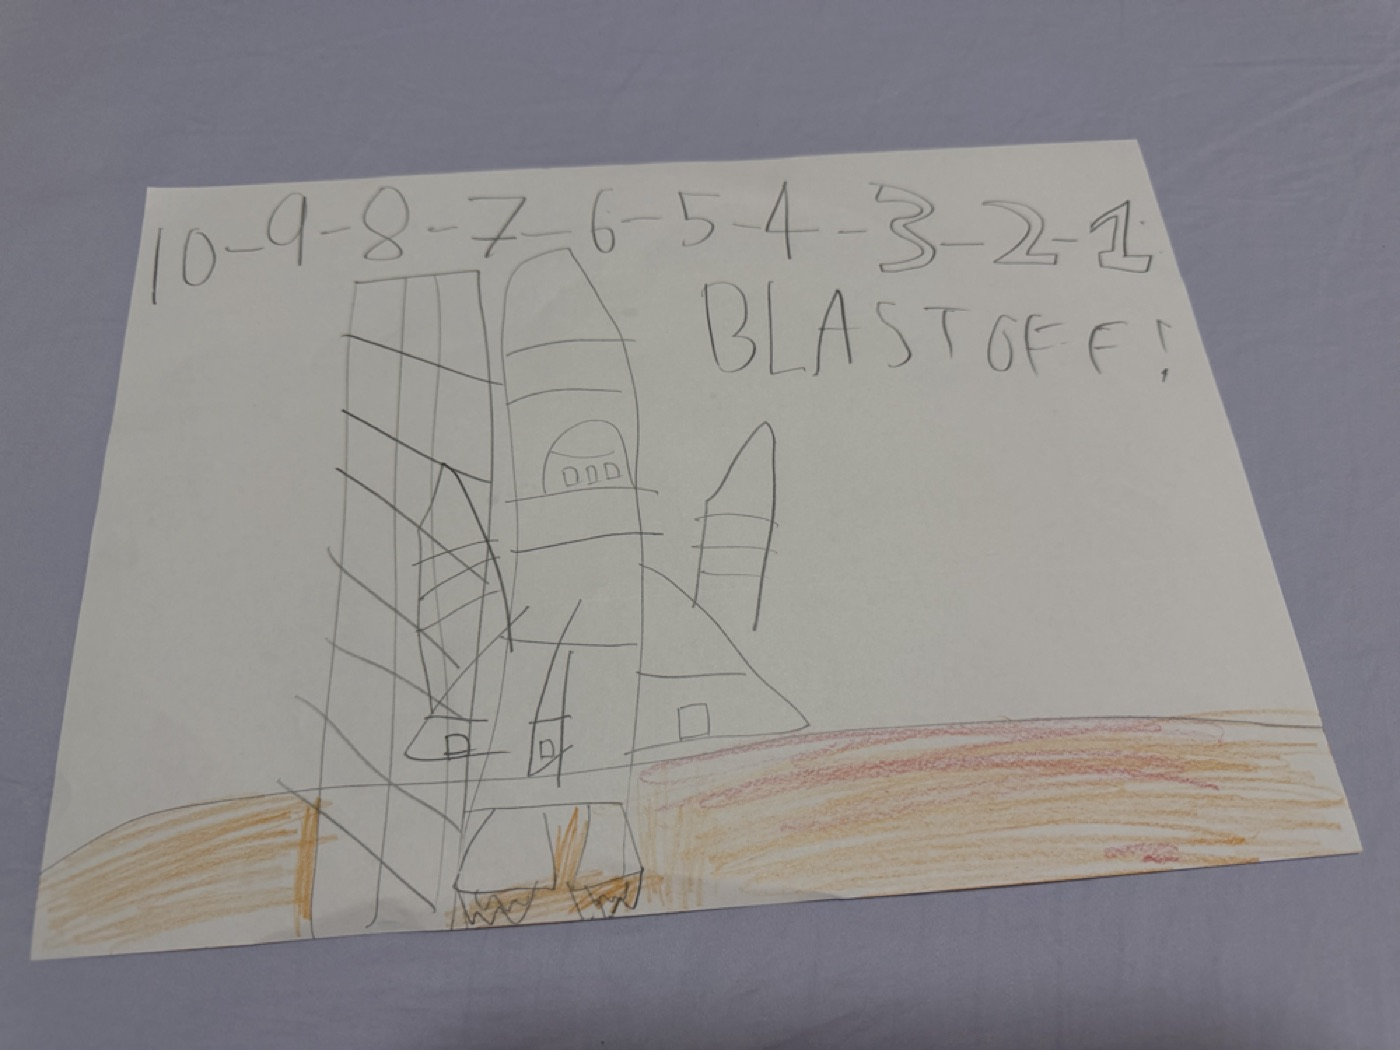
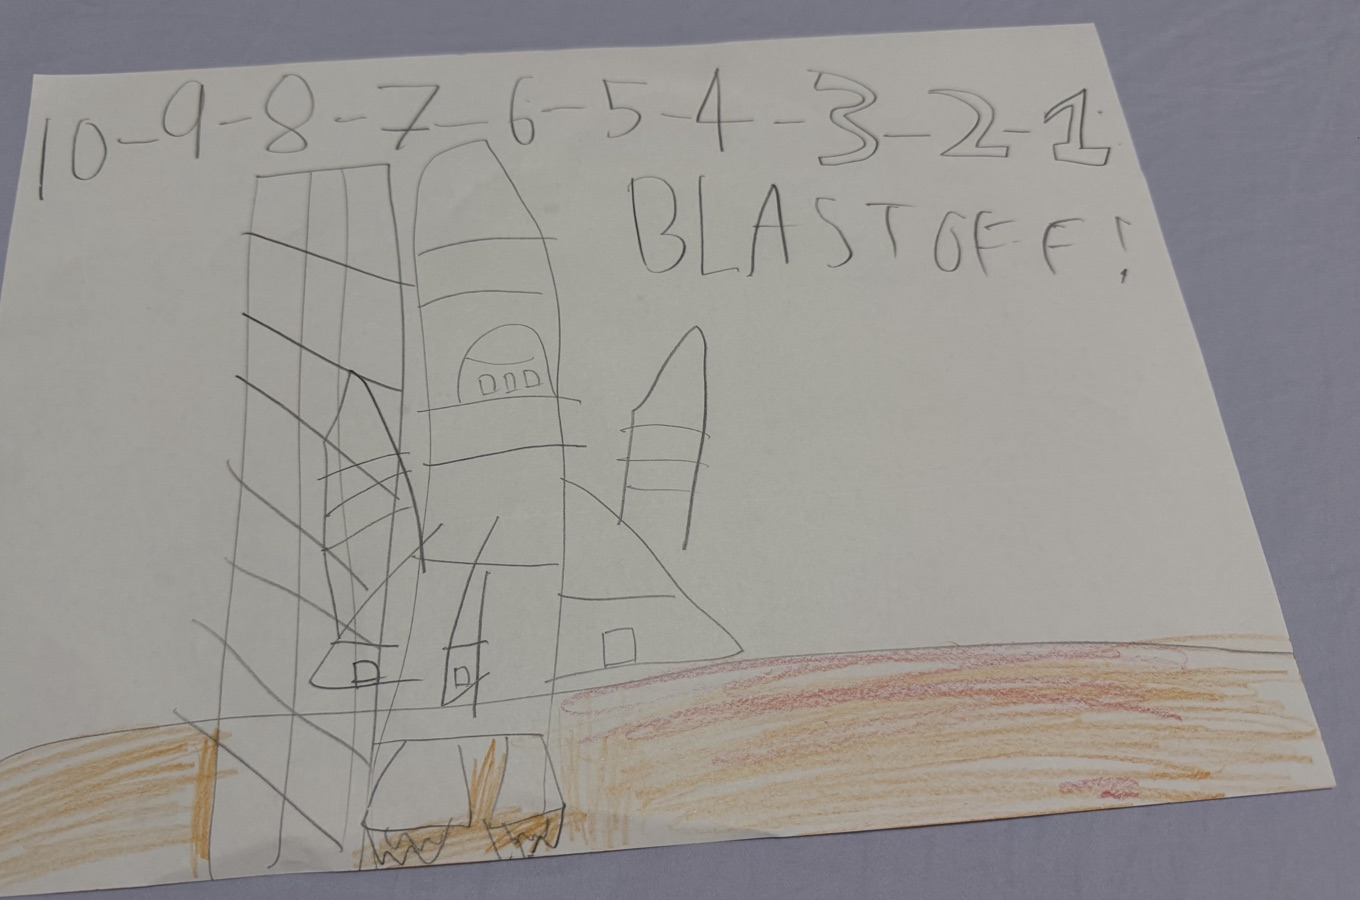
finale: cropped drawings (sheet trimmed), non-overlapping staggered row, localized captions + '八岁生日快乐' handwritten line; mobile: step-label wraps, tap-to-inspect (no sticky tooltip) + hides hook while inspecting

diff --git a/src/ui/styles.css b/src/ui/styles.css
@@ -94,22 +94,22 @@ body { margin: 0; font-family: system-ui, "PingFang SC", sans-serif; color: #e6e
 .finale-art.hidden { display: none; }
 .finale-inner { text-align: center; max-width: 1080px; padding: 44px 24px; }
 .finale-msg { color: #fff6e8; font-size: clamp(15px, 2.2vw, 21px); line-height: 1.5; margin-bottom: 30px; text-shadow: 0 2px 10px rgba(0,0,0,.5); }
-/* 随意拼贴：三张错落散放（左上/右上/下中），略重叠、各带倾角，一屏内看全 */
-.finale-gallery { position: relative; width: min(92vw, 1000px); height: min(58vh, 520px); margin: 6px auto 0; }
-.finale-piece { position: absolute; margin: 0; }
-.finale-piece:nth-child(1) { width: 38%; top: 0; left: 1%; z-index: 1; }
-.finale-piece:nth-child(2) { width: 42%; top: 5%; right: 0; z-index: 2; }
-.finale-piece:nth-child(3) { width: 40%; bottom: 0; left: 28%; z-index: 3; }
+/* 错落一排（不重叠）：三张高低错开、各带倾角，一屏内看全 */
+.finale-gallery { display: flex; flex-wrap: wrap; justify-content: center; align-items: flex-start; gap: 2.2%; }
+.finale-piece { margin: 0; width: 31%; }
+.finale-piece:nth-child(1) { margin-top: 32px; }
+.finale-piece:nth-child(2) { margin-top: 0; }
+.finale-piece:nth-child(3) { margin-top: 48px; }
 .finale-frame { background: #fdfdf7; padding: 12px 12px 10px; border-radius: 4px; box-shadow: 0 18px 48px rgba(0,0,0,.42); }
 .finale-frame img { display: block; width: 100%; height: auto; border-radius: 2px; }
 .finale-piece:nth-child(1) .finale-frame { transform: rotate(-2.5deg); }
 .finale-piece:nth-child(2) .finale-frame { transform: rotate(2deg); }
 .finale-piece:nth-child(3) .finale-frame { transform: rotate(-1.5deg); }
 .finale-piece figcaption { margin-top: 12px; color: #fff6e8; font-size: 14px; line-height: 1.4; text-shadow: 0 1px 6px rgba(0,0,0,.55); }
-/* 底部一行不起眼的手写小字致谢 */
-.finale-credit { margin-top: 34px; color: #fff2e0; font-weight: 400; opacity: .72; transform: rotate(-1.5deg);
+/* 底部手写体生日祝福 */
+.finale-credit { margin-top: 30px; color: #fff3e2; font-weight: 400; opacity: .96; transform: rotate(-1.5deg);
   font-family: "Snell Roundhand", "Bradley Hand", "Segoe Script", "Comic Sans MS", cursive;
-  font-size: clamp(14px, 1.7vw, 18px); text-shadow: 0 1px 5px rgba(0,0,0,.35); }
+  font-size: clamp(18px, 2.8vw, 28px); text-shadow: 0 2px 9px rgba(0,0,0,.45); }
 .finale-back { margin-top: 20px; padding: 8px 18px; border: 1px solid rgba(255,255,255,.5); border-radius: 16px;
   background: rgba(0,0,0,.18); color: #fff6e8; font-size: 13px; cursor: pointer; }
 .finale-back:hover { background: rgba(0,0,0,.34); }
@@ -143,13 +143,18 @@ body { margin: 0; font-family: system-ui, "PingFang SC", sans-serif; color: #e6e
   .diagram-panel.hidden { transform: translateY(103%); }
   .diagram-hint { display: none; }                        /* 手机无悬停，隐藏这条鼠标提示（也避免和面板重叠） */
   .home-lang { top: 10px; right: 10px; }
+  /* 动画步骤条：窄屏允许换行、别被裁掉，也别顶到 EN 按钮 */
+  .scene-step { white-space: normal !important; max-width: 82vw !important; font-size: 13px !important;
+    line-height: 1.35 !important; padding: 6px 13px !important; top: 10px !important; text-align: center; }
+  /* 点看火箭结构/3D 图解时，把顶部文案隐去，让图解独占展示（再点空白处收起） */
+  .inspecting .hud-hook, .inspecting .bp-formula, .inspecting .scene-step { opacity: 0 !important; pointer-events: none; }
   /* 结尾页（整屏）：手机上取消拼贴，改回竖排居中、可滚动 */
   .finale-inner { padding: 22px 12px; }
   .finale-gallery { position: static; width: auto; height: auto; display: flex; flex-direction: column; align-items: center; gap: 22px; }
   .finale-piece,
   .finale-piece:nth-child(1),
   .finale-piece:nth-child(2),
-  .finale-piece:nth-child(3) { position: static; width: min(88vw, 400px); top: auto; right: auto; bottom: auto; left: auto; }
+  .finale-piece:nth-child(3) { position: static; width: min(88vw, 400px); margin-top: 0; top: auto; right: auto; bottom: auto; left: auto; }
 }
 
 /* 横放的手机(矮屏)：进一步压低上下条，保住中间的动画带 */

diff --git a/src/scene/rocketScene.js b/src/scene/rocketScene.js
@@ -19,6 +19,7 @@ export function createRocketScene(mount) {
   // 级间分离时的步骤提示条（① MECO ② 分离 ③ 二级点火 ④ 抛整流罩）
   if (!mount.style.position) mount.style.position = 'relative'
   const stepLabel = document.createElement('div')
+  stepLabel.className = 'scene-step'
   stepLabel.style.cssText = 'position:absolute;top:14px;left:50%;transform:translateX(-50%);padding:7px 18px;border-radius:22px;background:rgba(18,26,36,0.82);color:#eafaff;font:600 16px/1.3 "PingFang SC","Microsoft YaHei",sans-serif;letter-spacing:.5px;white-space:nowrap;pointer-events:none;opacity:0;transition:opacity .35s;z-index:6;box-shadow:0 2px 10px rgba(0,0,0,.35)'
   mount.appendChild(stepLabel)
   function showStep(t) { stepLabel.textContent = t; stepLabel.style.opacity = '1' }
@@ -1355,23 +1356,35 @@ export function createRocketScene(mount) {
     }
     return null
   }
-  function onPointerMove(e) {
+  function pickAt(e) {   // 射线检测：返回鼠标/手指所指的部件 key（没指到火箭则 null）
     const rect = renderer.domElement.getBoundingClientRect()
-    if (!rect.width || !rect.height) return
-    if (!rocket.visible) {   // 火箭被藏起来时（如 4.4 轨道示意图）不要再弹出箭体结构标注
-      if (hoverPart !== null) { hoverPart = null; if (hoverHandler) hoverHandler(null) }
-      return
-    }
+    if (!rect.width || !rect.height || !rocket.visible) return null
     ndc.x = ((e.clientX - rect.left) / rect.width) * 2 - 1
     ndc.y = -((e.clientY - rect.top) / rect.height) * 2 + 1
     raycaster.setFromCamera(ndc, camera)
     const hits = raycaster.intersectObject(rocket, true)
-    let key = null
-    for (const h of hits) { key = partAt(h.object, h.point); if (key) break }
-    hoverPart = key
-    if (hoverHandler) hoverHandler(key ? { name: t(PARTS[key].name), desc: t(PARTS[key].desc), x: e.clientX, y: e.clientY } : null)
+    for (const h of hits) { const k = partAt(h.object, h.point); if (k) return k }
+    return null
   }
+  function applyHover(key, x, y) {
+    hoverPart = key
+    mount.classList.toggle('inspecting', !!key)   // 检视部件时（手机上）把其它文字隐去，让标注/图解看得清
+    if (hoverHandler) hoverHandler(key ? { name: t(PARTS[key].name), desc: t(PARTS[key].desc), x, y } : null)
+  }
+  function onPointerMove(e) {
+    if (e.pointerType === 'touch') return          // 触屏改用点按（见 onPointerDown），不靠悬停
+    applyHover(pickAt(e), e.clientX, e.clientY)
+  }
+  function onPointerDown(e) {
+    if (e.pointerType !== 'touch') return           // 鼠标交给悬停
+    const key = pickAt(e)
+    applyHover(key && key !== hoverPart ? key : null, e.clientX, e.clientY)  // 点部件=固定显示；再点同处/点空白=收起
+  }
+  function clearHover() { if (hoverPart !== null) applyHover(null) }
   renderer.domElement.addEventListener('pointermove', onPointerMove)
+  renderer.domElement.addEventListener('pointerdown', onPointerDown)
+  renderer.domElement.addEventListener('pointerleave', (e) => { if (e.pointerType !== 'touch') clearHover() })
+  renderer.domElement.addEventListener('pointercancel', clearHover)
   function setHoverHandler(fn) { hoverHandler = fn }
 
   // 语言切换：强制重绘画布类标签（分舱剖面 / 一级发动机高亮）

diff --git a/src/engine/levelEngine.js b/src/engine/levelEngine.js
@@ -28,9 +28,9 @@ export function startGame(mount) {
     <div class="finale-inner">
       <div class="finale-msg"></div>
       <div class="finale-gallery">
-        <figure class="finale-piece"><div class="finale-frame"><img src="${launchDrawingUrl}" alt="Blast off, drawn by Amie" /></div><figcaption>“10·9·8… BLAST OFF!”</figcaption></figure>
-        <figure class="finale-piece"><div class="finale-frame"><img src="${spaceDrawingUrl}" alt="In space, drawn by Amie" /></div><figcaption>“few hours later”</figcaption></figure>
-        <figure class="finale-piece"><div class="finale-frame"><img src="${marsDrawingUrl}" alt="On Mars, drawn by Amie" /></div><figcaption>“Mars (look like moon but… oh well.)”</figcaption></figure>
+        <figure class="finale-piece"><div class="finale-frame"><img src="${launchDrawingUrl}" alt="Blast off, drawn by Amie" /></div><figcaption></figcaption></figure>
+        <figure class="finale-piece"><div class="finale-frame"><img src="${spaceDrawingUrl}" alt="In space, drawn by Amie" /></div><figcaption></figcaption></figure>
+        <figure class="finale-piece"><div class="finale-frame"><img src="${marsDrawingUrl}" alt="On Mars, drawn by Amie" /></div><figcaption></figcaption></figure>
       </div>
       <div class="finale-credit"></div>
       <button class="finale-back"></button>
@@ -179,7 +179,11 @@ export function startGame(mount) {
     finaleArt.classList.toggle('hidden', !level.finale)
     if (level.finale) {
       finaleArt.querySelector('.finale-msg').textContent = t(level.hook)   // 复盘式收尾（从零到星舰的整段旅程）
-      finaleArt.querySelector('.finale-credit').textContent = 'inspired by Amie — a future astronaut'
+      const caps = finaleArt.querySelectorAll('.finale-piece figcaption')  // Amie 的三句配文（中文时翻译）
+      caps[0].textContent = t({ zh: '“10·9·8…发射！”', en: '“10·9·8… BLAST OFF!”' })
+      caps[1].textContent = t({ zh: '“几小时之后……”', en: '“few hours later”' })
+      caps[2].textContent = t({ zh: '“火星（看着像月球…不过没关系啦）”', en: '“Mars (look like moon but… oh well.)”' })
+      finaleArt.querySelector('.finale-credit').textContent = t({ zh: '🎂 Amie，八岁生日快乐！', en: '🎂 Happy 8th birthday, Amie!' })
       finaleArt.querySelector('.finale-back').textContent = t({ zh: '← 上一关', en: '← Back' })
     }
     if (level.finale) {
